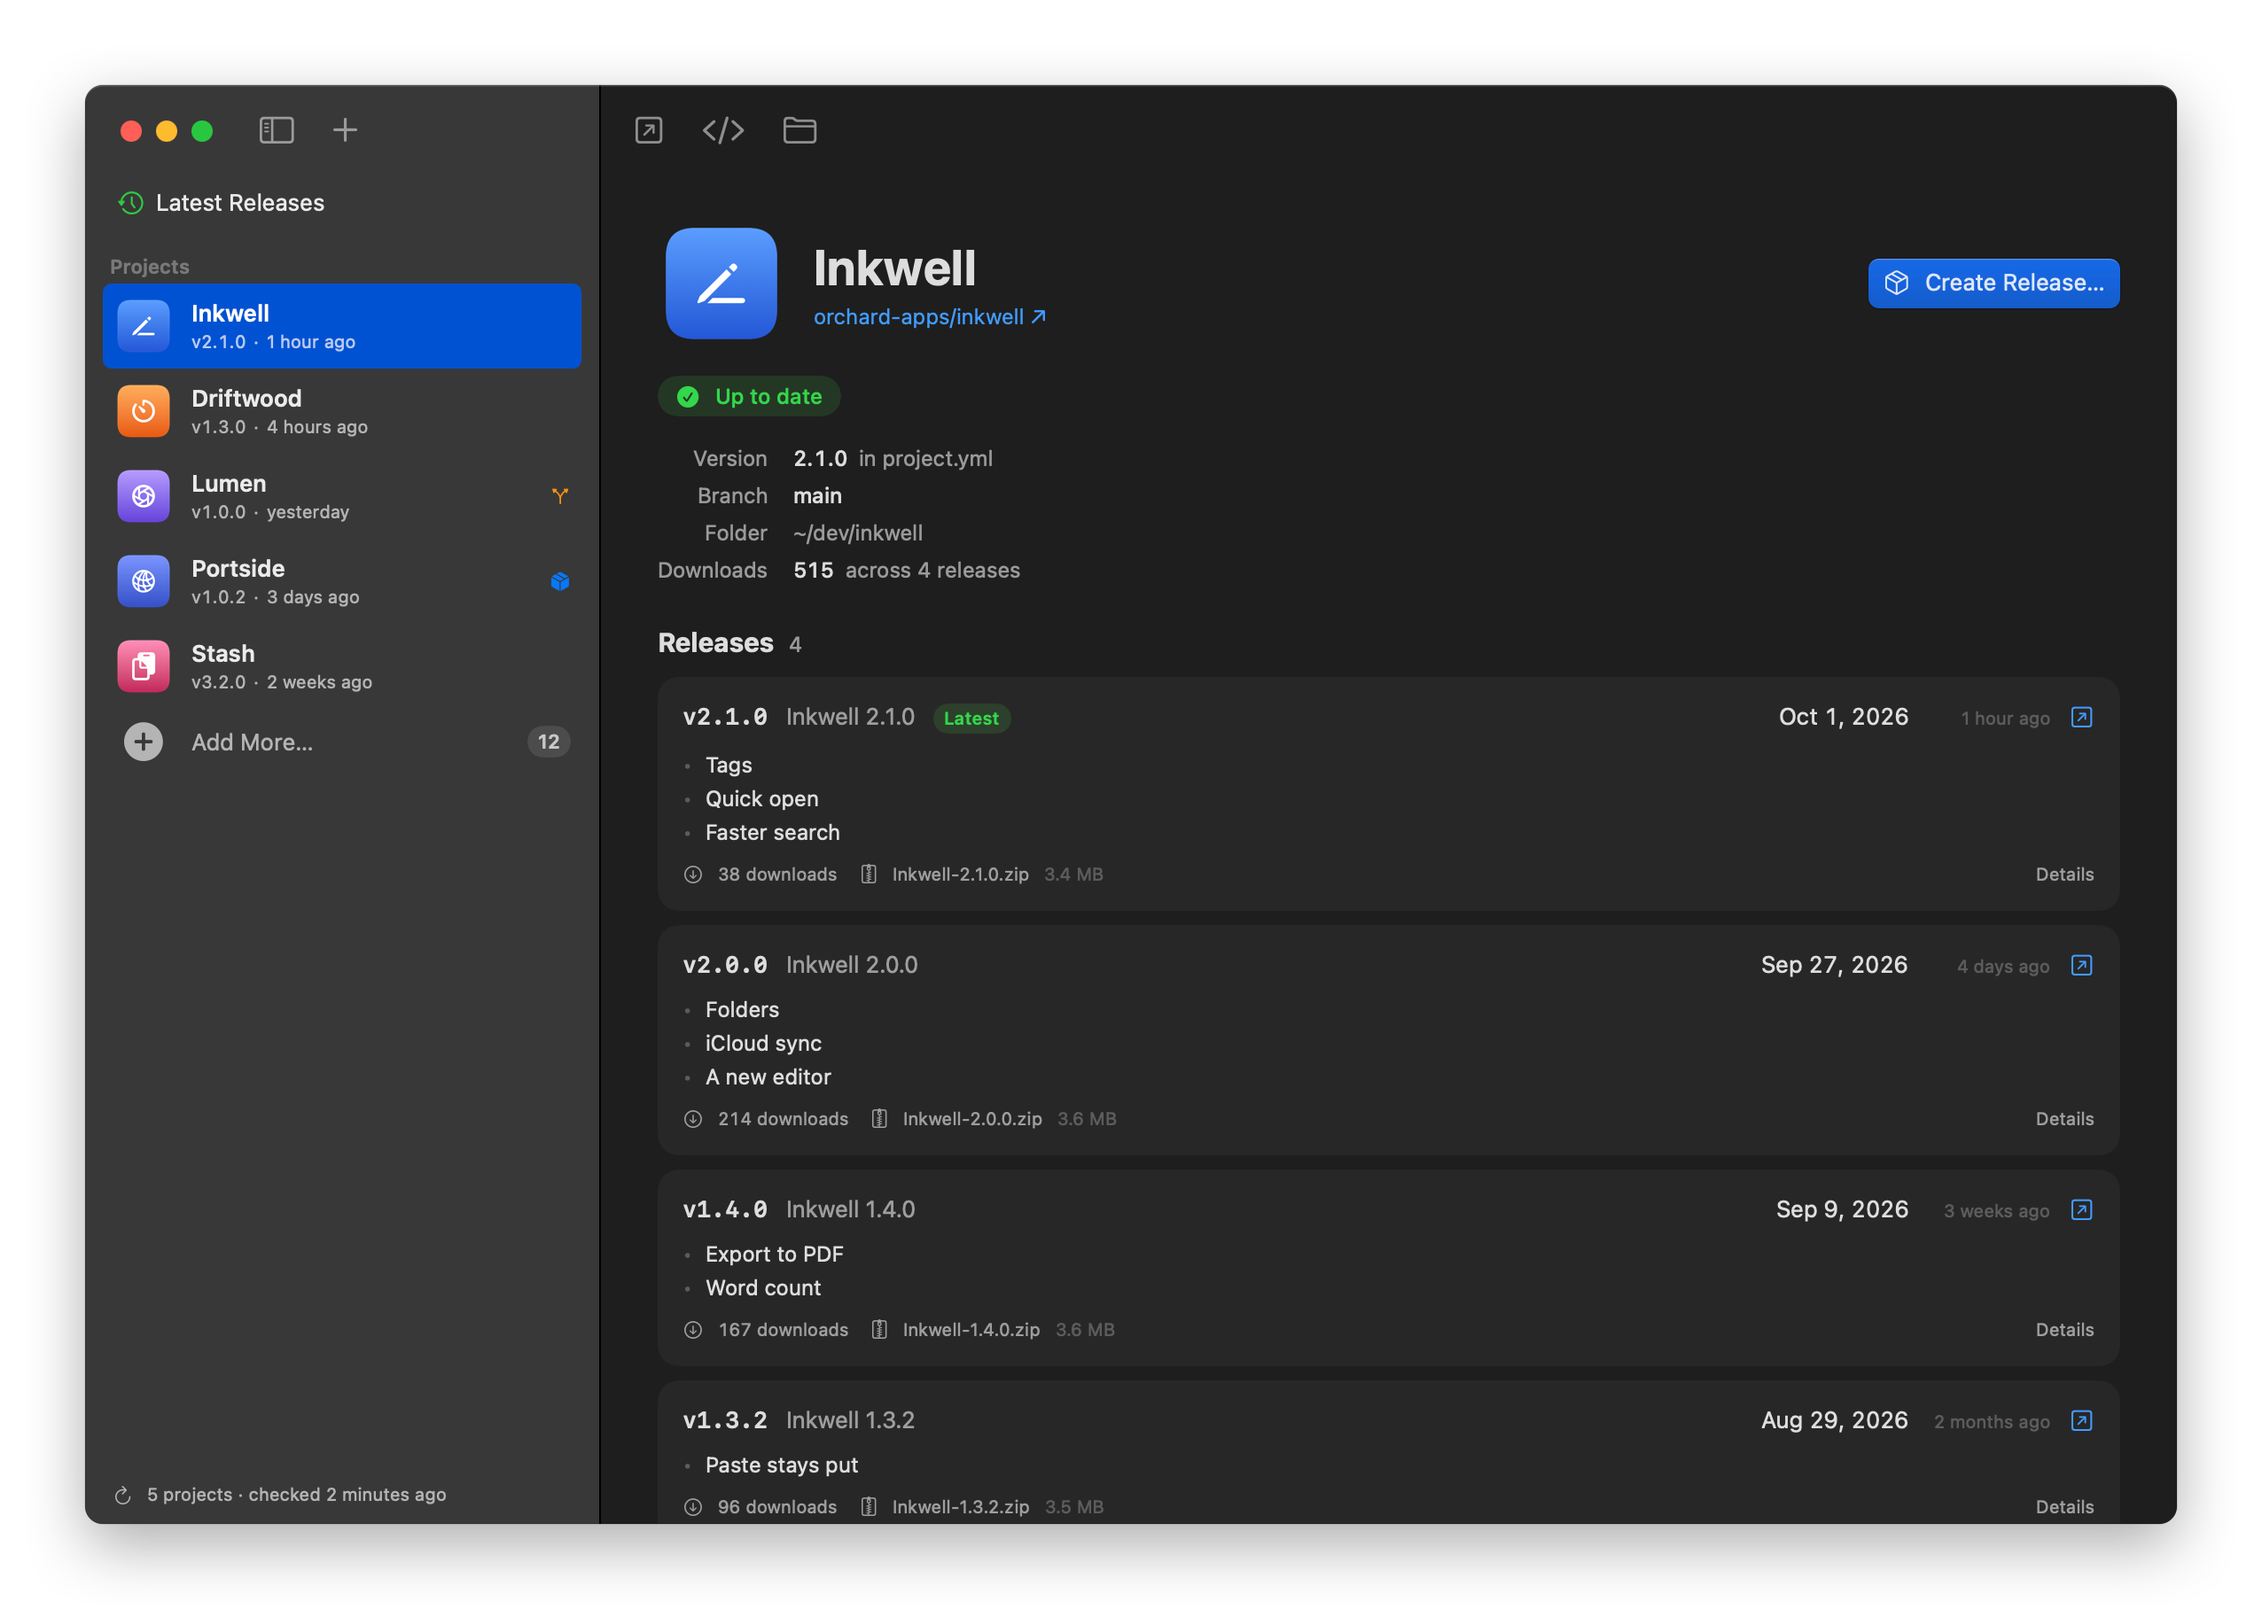
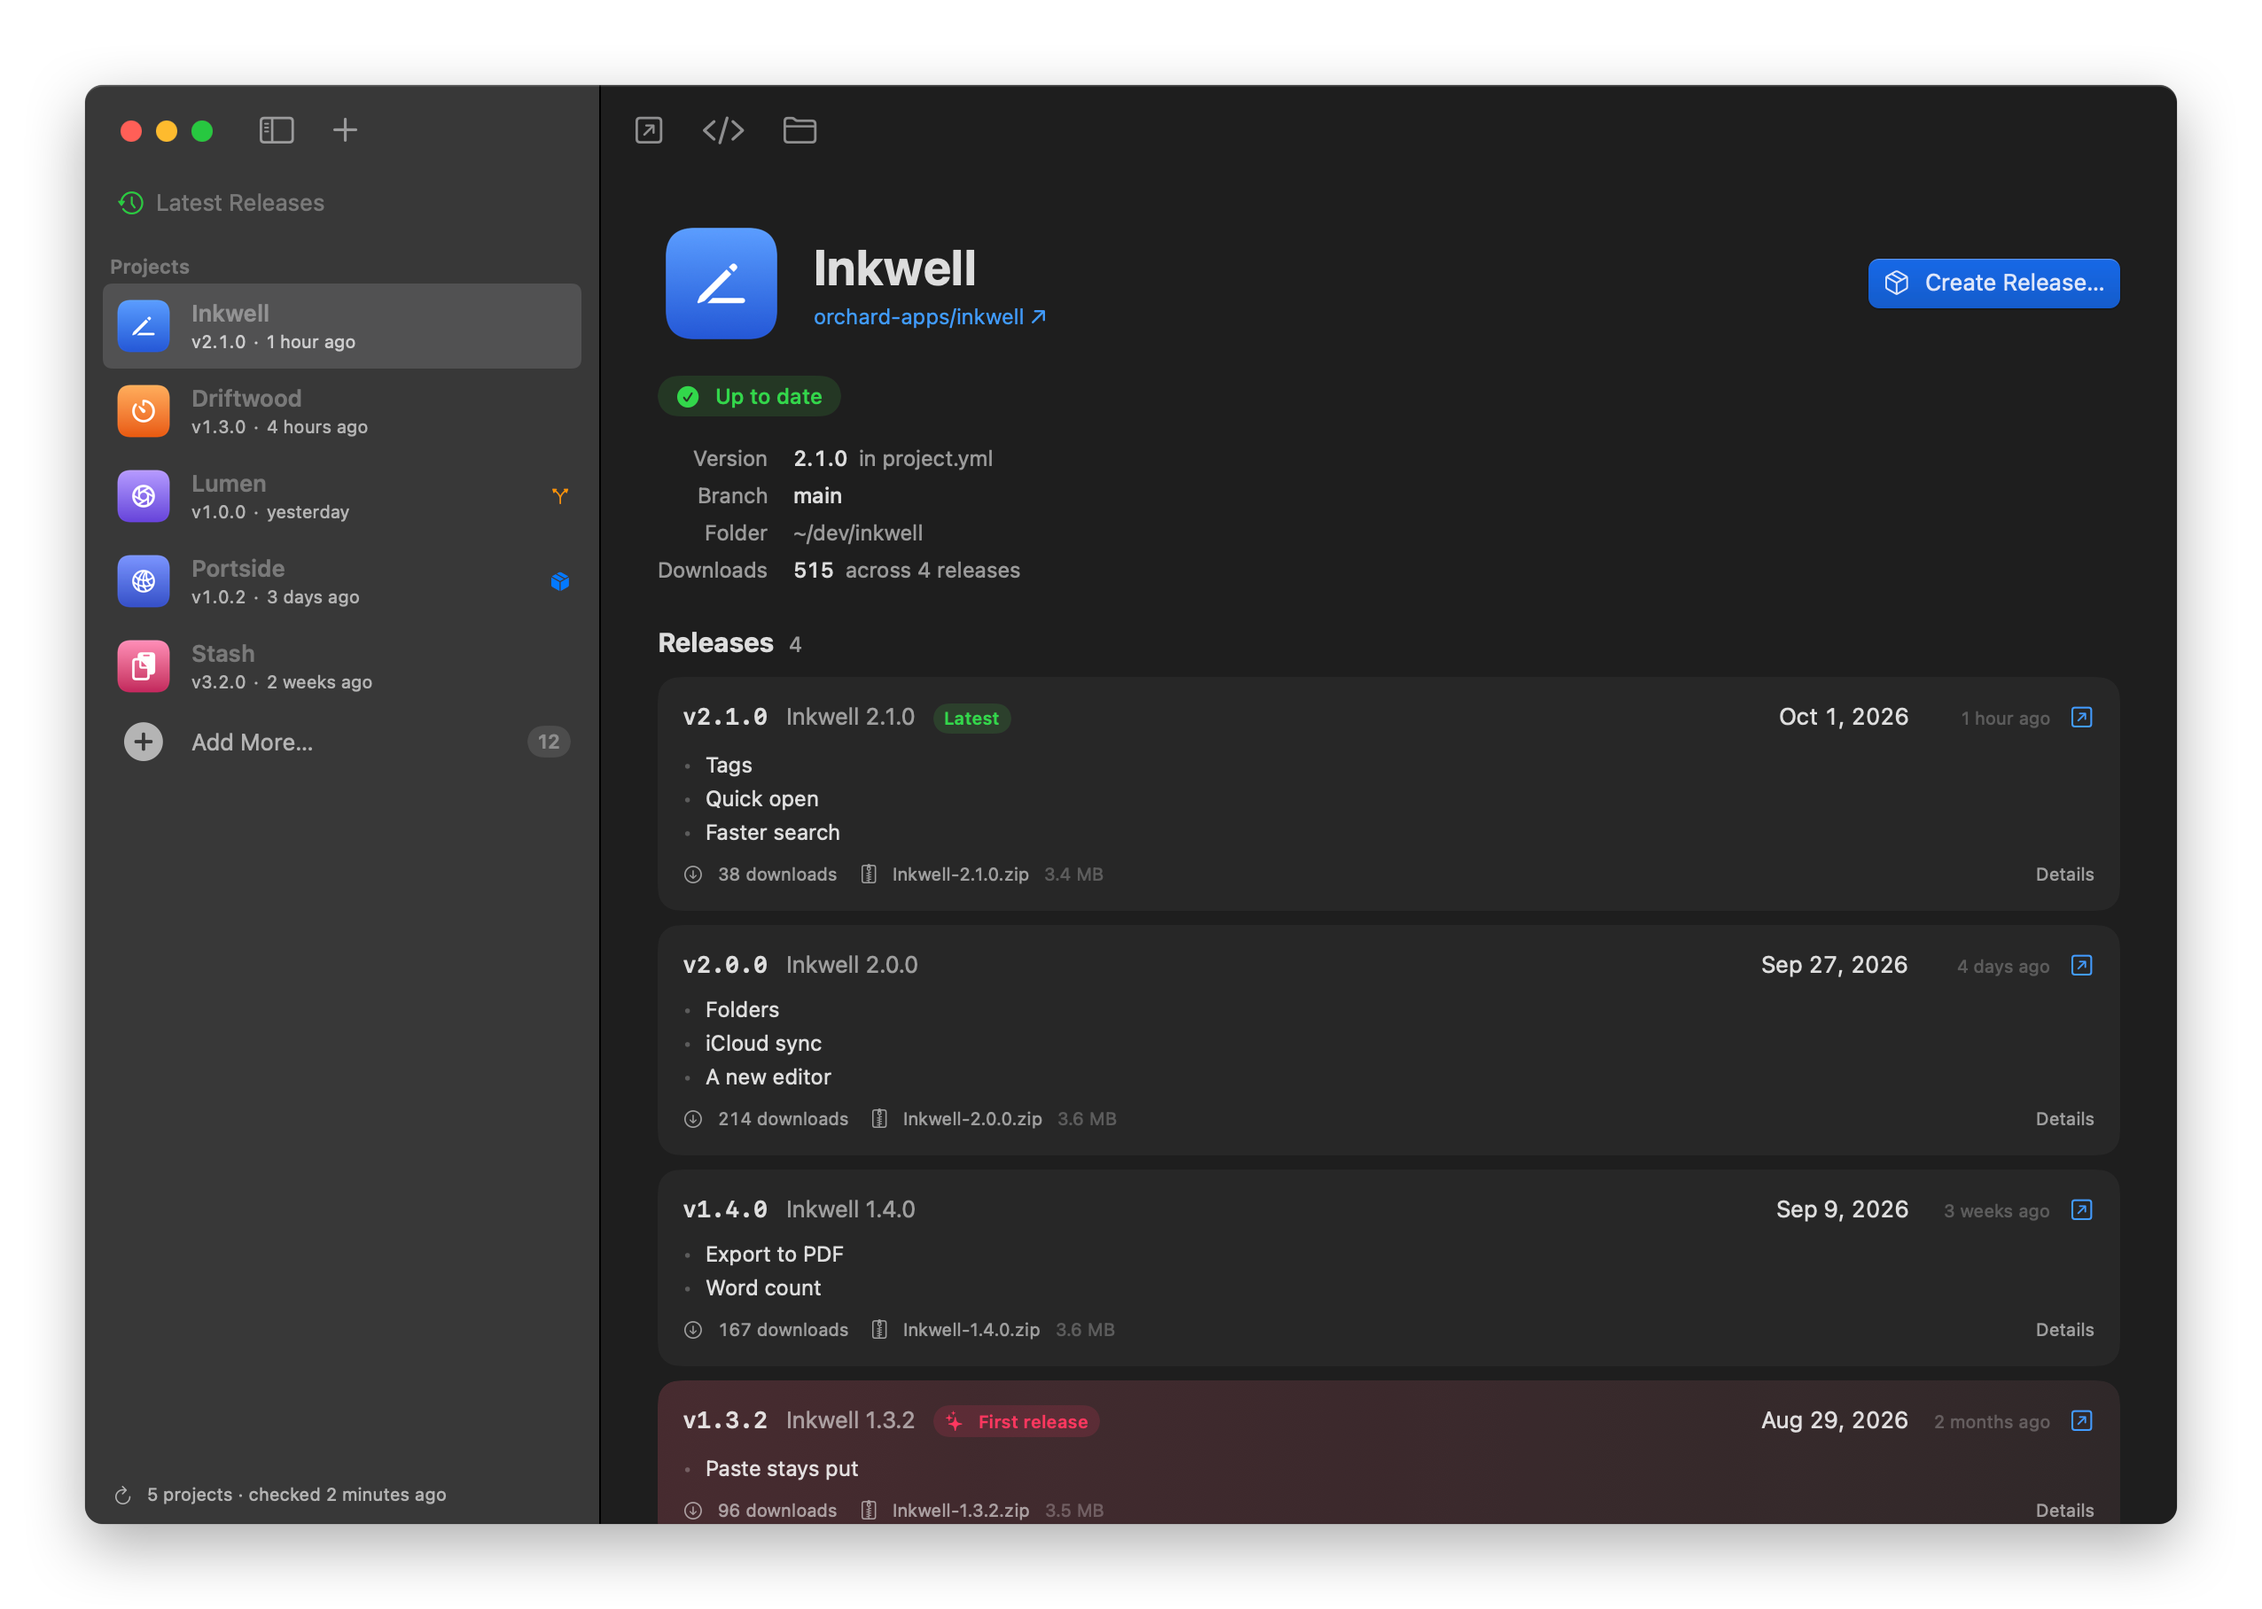
Mark each app's first release, and keep hover highlights inside the rounded groups
- Latest Releases and the project page tint an app's first release and tag it First release, whatever its version
- releases recent and show mark it too, with isFirstRelease in their JSON
- Row highlights are square, and the group clips them to its rounded corners

diff --git a/Sources/ReleasesApp/HomeView.swift b/Sources/ReleasesApp/HomeView.swift
@@ -148,7 +148,7 @@ private struct DaySection: View {
 
       RowGroup {
         ForEach(entries) { entry in
-          RowButton {
+          RowButton(tint: entry.isFirstRelease ? .firstRelease : nil) {
             model.select(entry.project)
           } content: {
             TimelineRow(entry: entry)
@@ -188,6 +188,9 @@ private struct TimelineRow: View {
             .foregroundStyle(.secondary)
           if entry.release.isPrerelease {
             Tag(text: "Prerelease", color: .purple)
+          }
+          if entry.isFirstRelease {
+            FirstReleaseTag()
           }
         }
 
@@ -235,15 +238,14 @@ private struct RowGroup<Content: View>: View {
     VStack(spacing: 0) {
       content
     }
-    .background(
-      RoundedRectangle(cornerRadius: 12, style: .continuous)
-        .fill(.quaternary.opacity(0.4))
-    )
+    .background(.quaternary.opacity(0.4))
+    .clipShape(RoundedRectangle(cornerRadius: 12, style: .continuous))
   }
 }
 
-/// A whole row that acts as a button and lights up on hover.
+/// A whole row that acts as a button and lights up on hover. The group clips it to its rounded corners.
 private struct RowButton<Content: View>: View {
+  var tint: Color?
   let action: () -> Void
   @ViewBuilder let content: Content
 
@@ -254,10 +256,12 @@ private struct RowButton<Content: View>: View {
       .padding(.horizontal, 14)
       .padding(.vertical, 10)
       .frame(maxWidth: .infinity, alignment: .leading)
-      .background(
-        RoundedRectangle(cornerRadius: 12, style: .continuous)
-          .fill(Color.primary.opacity(isHovering ? 0.05 : 0))
-      )
+      .background {
+        if let tint {
+          LinearGradient(colors: [tint.opacity(0.16), tint.opacity(0.04)], startPoint: .leading, endPoint: .trailing)
+        }
+      }
+      .background(Color.primary.opacity(isHovering ? 0.05 : 0))
       .contentShape(Rectangle())
       .onTapGesture(perform: action)
       .onHover { isHovering = $0 }

diff --git a/Sources/ReleasesCLI/Output.swift b/Sources/ReleasesCLI/Output.swift
@@ -148,6 +148,7 @@ enum Output {
       var flags: [String] = []
       if release.isDraft { flags.append("draft") }
       if release.isPrerelease { flags.append("prerelease") }
+      if release.id == snapshot.firstRelease?.id { flags.append("first release") }
       let downloads = release.downloadCount == 1 ? "1 download" : "\(release.downloadCount) downloads"
       print(trimTrailingSpaces(
         (["", release.tag, date(release.publishedAt), downloads, release.url.absoluteString] + flags.map { "[\($0)]" }).joined(separator: "  ")
@@ -172,6 +173,7 @@ struct ReleaseJSON: Encodable {
   var url: URL
   var isDraft: Bool
   var isPrerelease: Bool
+  var isFirstRelease: Bool
   var downloadCount: Int
   var assets: [ReleaseAsset]
   var changes: [String]
@@ -183,6 +185,7 @@ struct ReleaseJSON: Encodable {
     url = release.url
     isDraft = release.isDraft
     isPrerelease = release.isPrerelease
+    isFirstRelease = release.id == snapshot.firstRelease?.id
     downloadCount = release.downloadCount
     assets = release.assets
     changes = snapshot.changes(in: release).map(\.text)
@@ -199,6 +202,7 @@ struct TimelineJSON: Encodable {
   var publishedAt: Date
   var url: URL
   var isPrerelease: Bool
+  var isFirstRelease: Bool
   var downloadCount: Int
   var changes: [String]
 
@@ -211,6 +215,7 @@ struct TimelineJSON: Encodable {
     publishedAt = entry.date
     url = entry.release.url
     isPrerelease = entry.release.isPrerelease
+    isFirstRelease = entry.isFirstRelease
     downloadCount = entry.release.downloadCount
     changes = entry.project.changes(in: entry.release).map(\.text)
   }

diff --git a/Sources/ReleasesApp/ProjectDetailView.swift b/Sources/ReleasesApp/ProjectDetailView.swift
@@ -248,6 +248,7 @@ private struct ReleasesSection: View {
             ReleaseRow(
               release: release,
               isLatest: release.id == snapshot.latestRelease?.id,
+              isFirst: release.id == snapshot.firstRelease?.id,
               changes: snapshot.changes(in: release)
             )
           }
@@ -287,6 +288,7 @@ struct SectionTitle: View {
 private struct ReleaseRow: View {
   let release: Release
   let isLatest: Bool
+  let isFirst: Bool
   let changes: [Change]
 
   @State private var showsDetails = false
@@ -305,6 +307,7 @@ private struct ReleaseRow: View {
         }
 
         if isLatest { Tag(text: "Latest", color: .green) }
+        if isFirst { FirstReleaseTag() }
         if release.isDraft { Tag(text: "Draft", color: .orange) }
         if release.isPrerelease { Tag(text: "Prerelease", color: .purple) }
 
@@ -357,10 +360,13 @@ private struct ReleaseRow: View {
       .foregroundStyle(.secondary)
     }
     .padding(14)
-    .background(
-      RoundedRectangle(cornerRadius: 12, style: .continuous)
-        .fill(.quaternary.opacity(isHovering ? 0.6 : 0.4))
-    )
+    .background {
+      if isFirst {
+        LinearGradient(colors: [Color.firstRelease.opacity(0.14), Color.firstRelease.opacity(0.04)], startPoint: .leading, endPoint: .trailing)
+      }
+    }
+    .background(.quaternary.opacity(isHovering ? 0.6 : 0.4))
+    .clipShape(RoundedRectangle(cornerRadius: 12, style: .continuous))
     .onHover { isHovering = $0 }
   }
 }

diff --git a/Scripts/screenshot.swift b/Scripts/screenshot.swift
@@ -40,7 +40,8 @@ enum Demo {
       ]),
       project("Driftwood", folder: "driftwood", symbol: "timer", colors: (0xFFAE5C, 0xE8590C), version: "1.3.0", releases: [
         release("Driftwood", "1.3.0", hoursAgo: 4.2, downloads: 21, notes: ["**Menu bar timer.** The time left, always in sight.", "**Custom sounds.** Pick the chime at the end of a session."]),
-        release("Driftwood", "1.2.1", hoursAgo: 27, downloads: 64, notes: ["**Sleep-proof sessions.** A session keeps going when the Mac goes to sleep."])
+        release("Driftwood", "1.2.1", hoursAgo: 27, downloads: 64, notes: ["**Sleep-proof sessions.** A session keeps going when the Mac goes to sleep."]),
+        release("Driftwood", "1.0.0", hoursAgo: 1000, downloads: 181, notes: ["**Focus sessions** with a gentle chime at the end."])
       ]),
       project("Lumen", folder: "lumen", symbol: "camera.aperture", colors: (0xB79BFF, 0x6741D9), version: "1.0.0", releases: [
         release("Lumen", "1.0.0", hoursAgo: 30, downloads: 112, notes: ["**Capture any window** with its shadow, or without.", "**Annotate** with arrows, boxes and text.", "**Copy or save** in one click."])

diff --git a/Tests/ReleasesCoreTests/ProjectSnapshotTests.swift b/Tests/ReleasesCoreTests/ProjectSnapshotTests.swift
@@ -60,6 +60,14 @@ struct ProjectSnapshotTests {
   }
 
   @Test
+  func firstReleaseIsTheOldestPublicOne() {
+    let snapshot = snapshot(releases: [release("v1.1.0", daysAgo: 1), release("v1.0.0", daysAgo: 5), release("v0.9.0", daysAgo: 9, prerelease: true)])
+    #expect(snapshot.firstRelease?.tag == "v1.0.0")
+    #expect([snapshot].timeline().filter(\.isFirstRelease).map(\.release.tag) == ["v1.0.0"])
+    #expect(self.snapshot(releases: []).firstRelease == nil)
+  }
+
+  @Test
   func suggestsTheNextVersion() {
     #expect(snapshot(version: "1.0.2", releases: [release("v1.0.2")]).suggestedVersion.description == "1.0.3")
     #expect(snapshot(version: "1.1.0", releases: [release("v1.0.2")]).suggestedVersion.description == "1.1.0")

diff --git a/Sources/ReleasesCore/ProjectSnapshot.swift b/Sources/ReleasesCore/ProjectSnapshot.swift
@@ -39,6 +39,11 @@ public struct ProjectSnapshot: Identifiable, Hashable, Sendable {
     releases.first(where: \.isPublic)
   }
 
+  /// The release that launched the project: its oldest public one, whatever its version.
+  public var firstRelease: Release? {
+    releases.last(where: \.isPublic)
+  }
+
   public var localVersion: SemanticVersion? {
     local.version?.semantic
   }
@@ -140,6 +145,11 @@ public struct TimelineEntry: Identifiable, Hashable, Sendable {
   public var date: Date
 
   public var id: String { "\(project.id)#\(release.tag)" }
+
+  /// A new app: the project's first public release.
+  public var isFirstRelease: Bool {
+    project.firstRelease?.tag == release.tag
+  }
 }
 
 extension [ProjectSnapshot] {

diff --git a/Sources/ReleasesApp/Styling.swift b/Sources/ReleasesApp/Styling.swift
@@ -109,6 +109,23 @@ struct Tag: View {
   }
 }
 
+extension Color {
+  /// Marks a project's first release, the one that launched it.
+  static let firstRelease = Color.pink
+}
+
+struct FirstReleaseTag: View {
+  var body: some View {
+    Label("First release", systemImage: "sparkles")
+      .font(.caption2.weight(.semibold))
+      .padding(.horizontal, 6)
+      .padding(.vertical, 2)
+      .foregroundStyle(Color.firstRelease)
+      .background(Capsule().fill(Color.firstRelease.opacity(0.14)))
+      .help("The release that launched this app")
+  }
+}
+
 struct Card<Content: View>: View {
   @ViewBuilder let content: Content
 

diff --git a/Sources/ReleasesCLI/ReleasesCommand.swift b/Sources/ReleasesCLI/ReleasesCommand.swift
@@ -151,7 +151,7 @@ struct ReleasesCommand {
       [
         entry.date.formatted(date: .abbreviated, time: .shortened),
         entry.project.name,
-        entry.release.tag + (entry.release.isPrerelease ? " [prerelease]" : ""),
+        entry.release.tag + (entry.release.isPrerelease ? " [prerelease]" : "") + (entry.isFirstRelease ? " [first release]" : ""),
         entry.release.downloadCount == 1 ? "1 download" : "\(entry.release.downloadCount) downloads"
       ]
     })

diff --git a/Sources/ReleasesCLI/Commands.swift b/Sources/ReleasesCLI/Commands.swift
@@ -38,7 +38,7 @@ enum Commands {
         refresh,
         json
       ],
-      details: "Drafts are left out. Prereleases are marked."
+      details: "Drafts are left out. Prereleases and each app's first release are marked."
     ),
     CommandSpec(
       name: "show",
